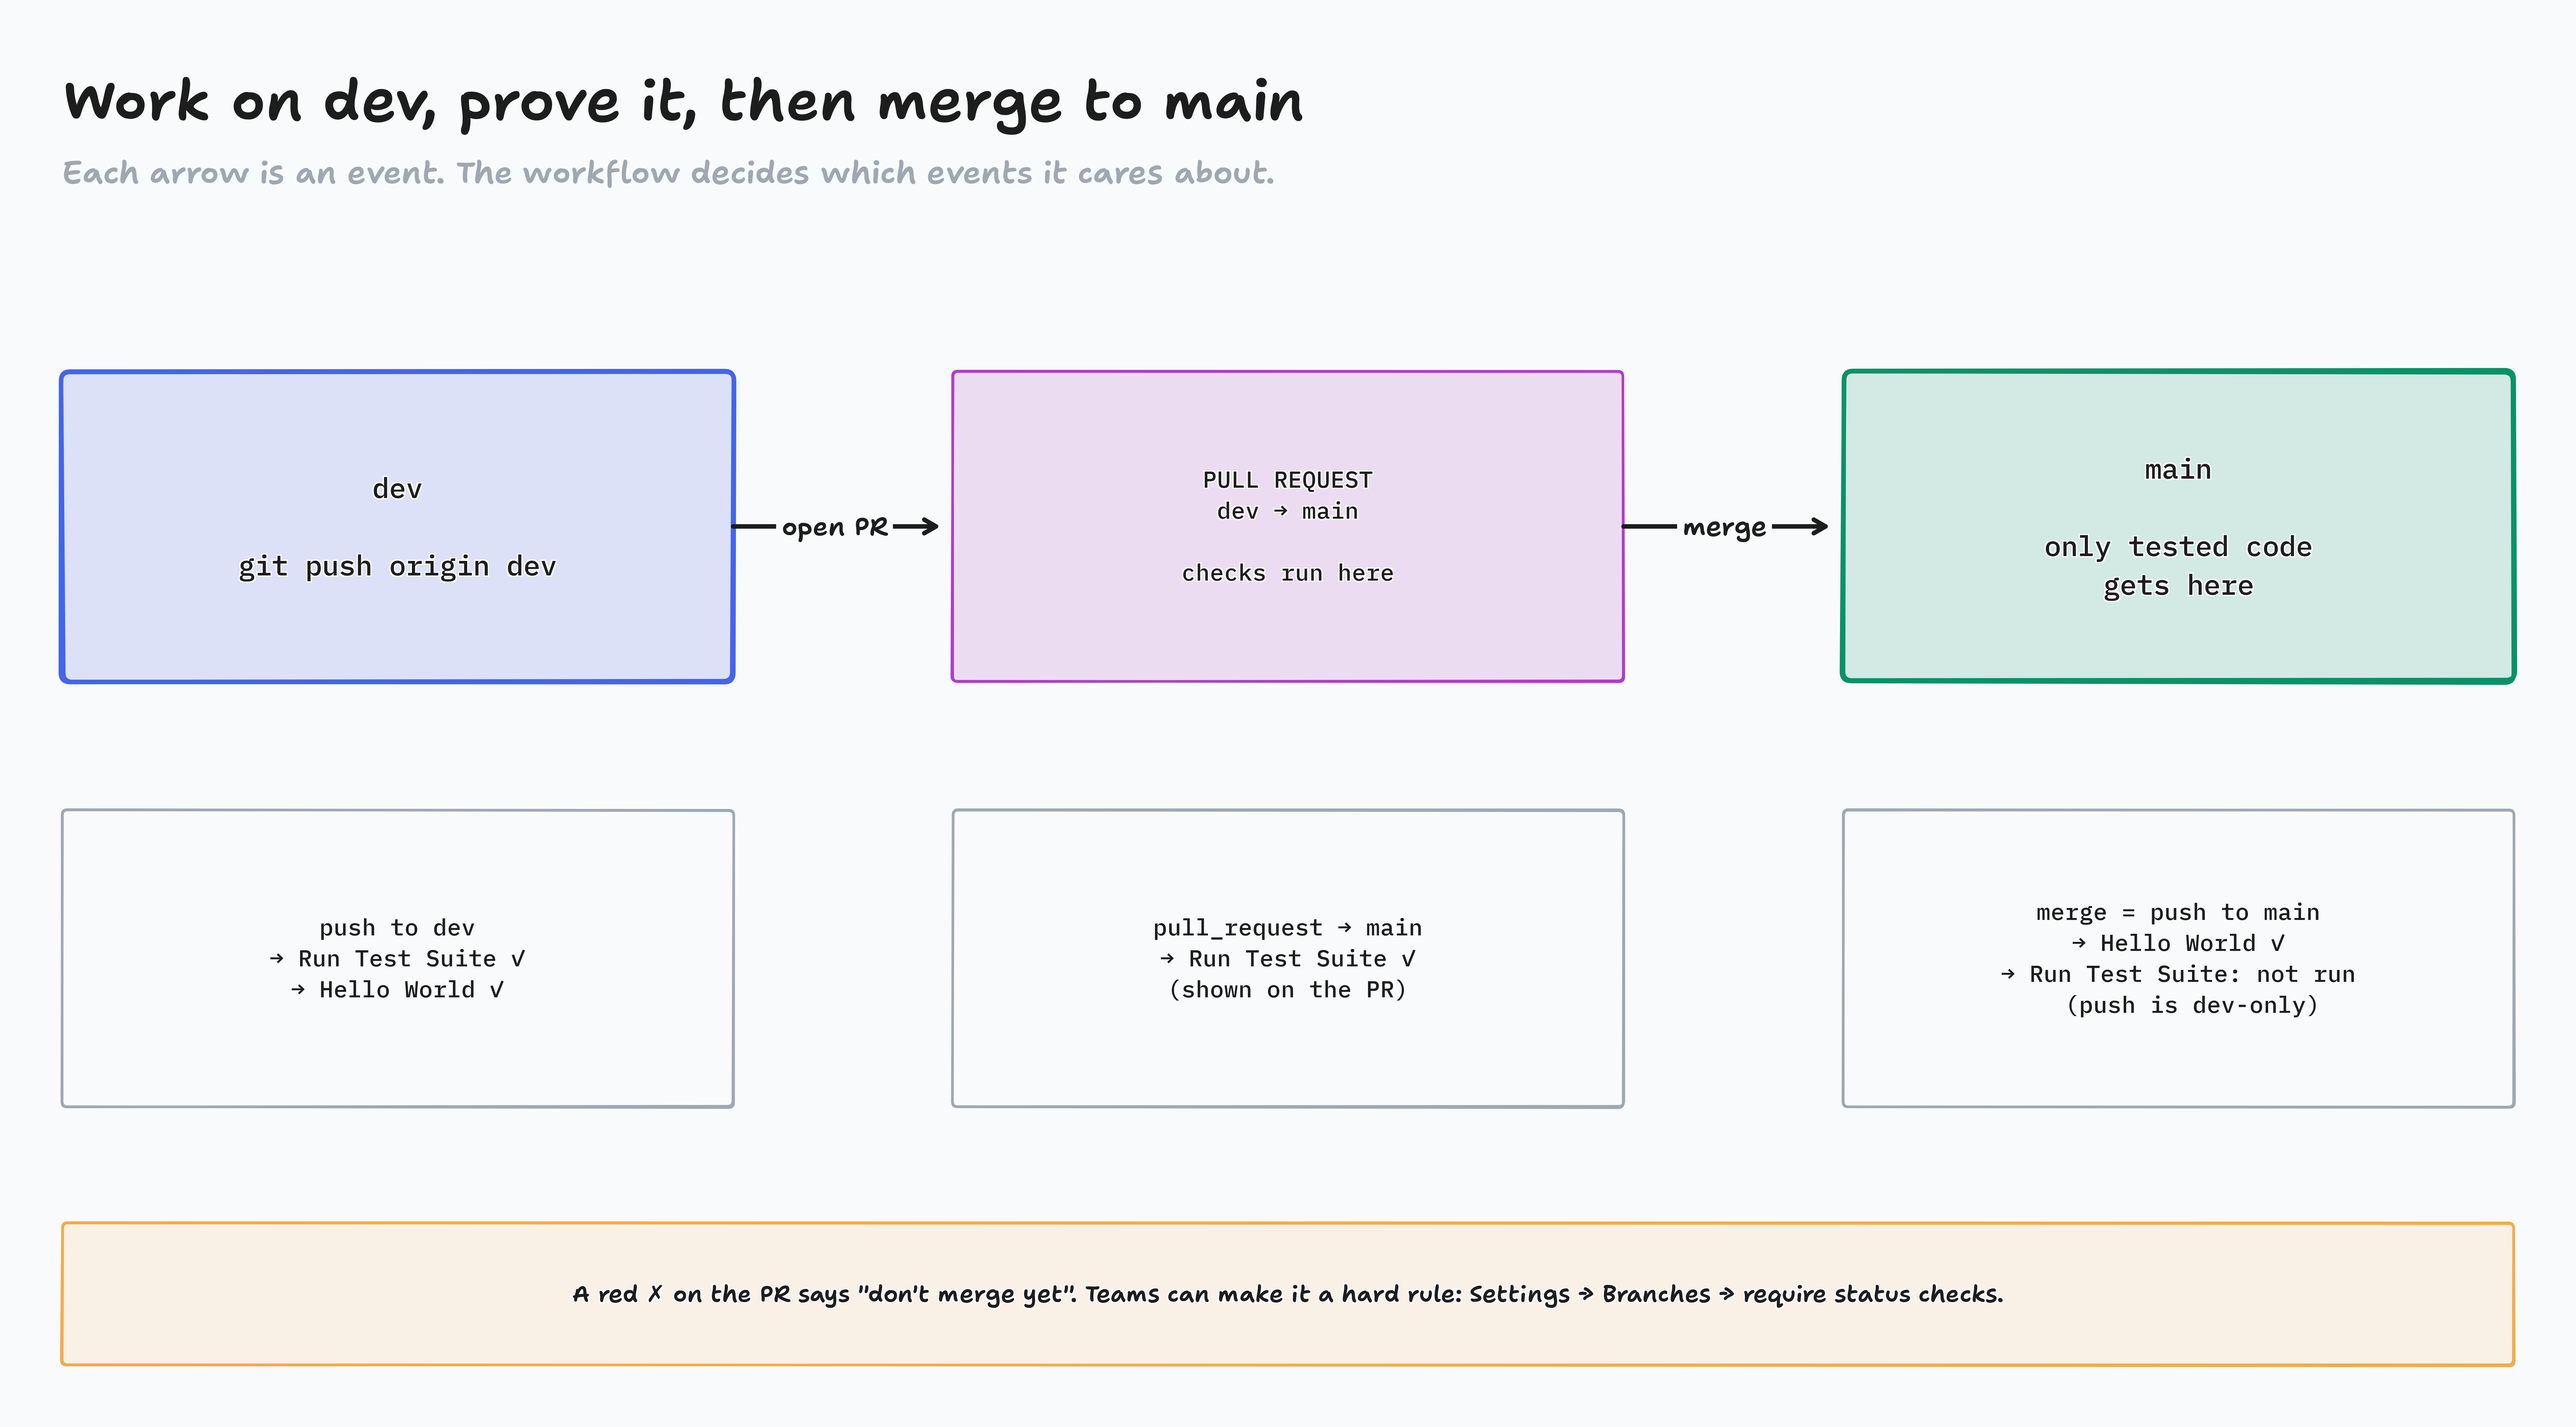
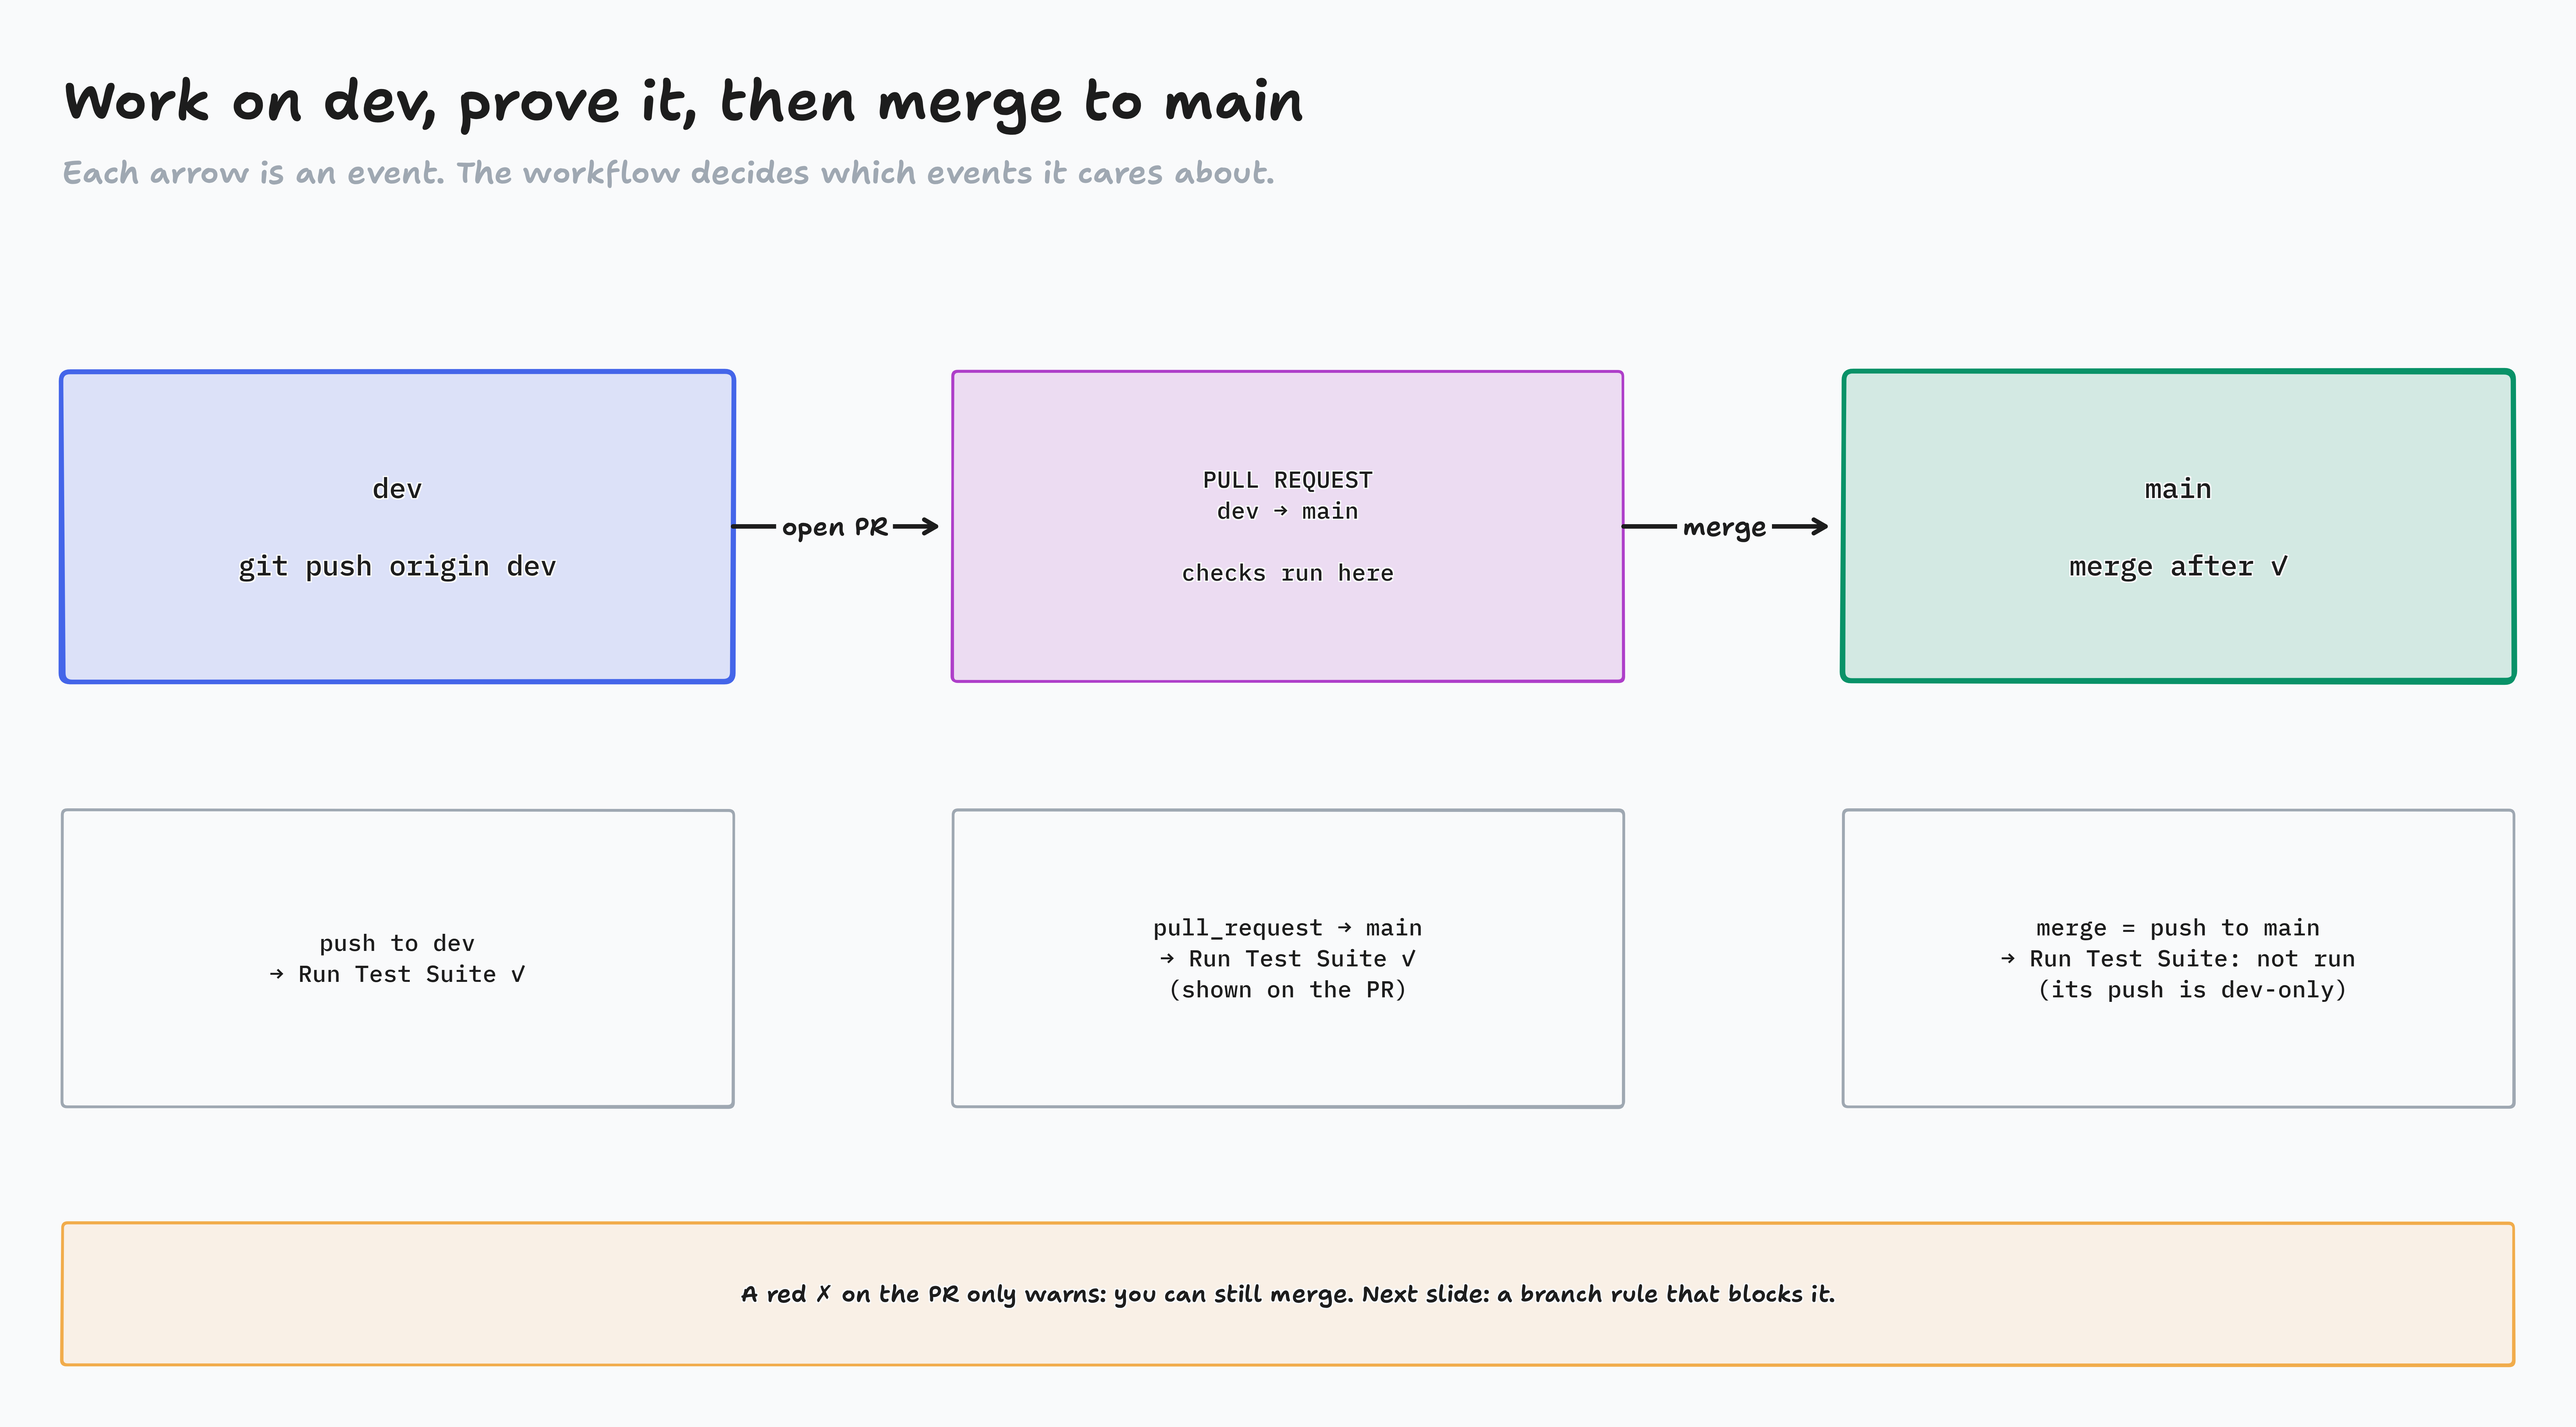
Lecture 2: students' ci-factorial has no Hello World; slide 7 and the dev/PR/main diagram match it

diff --git a/lecture-2-managing-workflows/slides.html b/lecture-2-managing-workflows/slides.html
@@ -184,11 +184,11 @@ git push -u origin dev</pre>
     </div>
   </div>
   <aside class="notes">
-    <p><b>** CODE ALONG, about 5 minutes. **</b> New file <code>.github/workflows/run-tests.yml</code> (next to hello-world.yml if they have it). Students copy from Code Lab 2; the YAML is the curriculum's, word for word.</p>
+    <p><b>** CODE ALONG, about 5 minutes. **</b> New file <code>.github/workflows/run-tests.yml</code> (ci-factorial is a new repo, so this is its only workflow). Students copy from Code Lab 2; the YAML is the curriculum's, word for word.</p>
     <ul>
       <li><code>|</code> = "the next lines are one multi-line command".</li>
       <li><code>npm test || (…exit 1)</code>: if the tests fail, print ❌ and fail the step.</li>
-      <li>Push to <b>dev</b> → Actions tab: Run Test Suite starts (and Hello World too, if the repo has it).</li>
+      <li>Push to <b>dev</b> → Actions tab: Run Test Suite starts. (The demo repo also shows a Hello World run: it has both files. Students' ci-factorial doesn't.)</li>
       <li><b>Install Jest step:</b> it's there because the lesson's package.json doesn't list Jest. Students ran <code>npm install --save-dev jest</code> on slide 3, so <b>their</b> package.json lists it: <code>npm install</code> already installs Jest, and this step is harmless. Their log says "added … packages", not "up to date" like slide 6.</li>
       <li>Say: "In your own projects, put Jest in devDependencies with <code>npm install --save-dev jest</code> and drop this step. <code>npm install</code> gets it from there." Better practice: one list of what the project needs, and the same Jest version on your laptop and in CI.</li>
     </ul>
@@ -227,7 +227,7 @@ git push -u origin dev</pre>
       <pre style="font-size:19px; margin-top:12px; padding:12px 16px">git add .
 git commit -m "Break a test"
 git push</pre>
-      <p class="small" style="margin-top:12px">Run Test Suite: <b style="color:var(--red)">✗ failure</b>. Hello World: still ✓.</p>
+      <p class="small" style="margin-top:12px">Run Test Suite: <b style="color:var(--red)">✗ failure</b>.</p>
     </div>
     <pre class="log" style="font-size:16.5px">FAIL ./main.test.js
   tests factorial for small numbers
@@ -252,6 +252,7 @@ Tests:       <span class="bad">1 failed</span>, <span class="ok">6 passed</span>
   <aside class="notes">
     <p><b>** CODE ALONG, about 3 minutes. **</b> Everyone breaks it and pushes. Open the red run → the <b>test</b> job → the red <b>Run tests</b> step.</p>
     <p>Then fix it (<code>toBe(6)</code>), commit, push → green again. Real log from kabeier/gh-actions-demo.</p>
+    <p><b>Demo repo vs students:</b> kabeier/gh-actions-demo also has hello-world.yml, so its Actions tab shows a Hello World run too. Students' <b>ci-factorial</b> is a separate repo with only Run Test Suite.</p>
   </aside>
 </section>
 
@@ -272,11 +273,12 @@ Tests:       <span class="bad">1 failed</span>, <span class="ok">6 passed</span>
 
 <!-- ============ PR, DISPATCH, CODE (25–33) ============ -->
 <section class="slide diagram" data-seg="Pull requests" data-at="25">
-  <img src="../diagrams/GA2-02-dev-pr-main.png" alt="Work on dev, prove it, then merge to main. dev (git push origin dev), then open a pull request dev into main where checks run, then merge into main where only tested code gets. A push to dev runs Run Test Suite and Hello World. The pull_request into main runs Run Test Suite, shown on the PR. The merge is a push to main: Hello World runs, Run Test Suite does not, because its push trigger is dev-only. A red X on the PR says don't merge yet; teams can make it a hard rule in Settings, Branches, require status checks.">
+  <img src="../diagrams/GA2-02-dev-pr-main.png?v=2" alt="Work on dev, prove it, then merge to main. dev (git push origin dev), then open a pull request dev into main where checks run, then merge into main after a green check. A push to dev runs Run Test Suite. The pull_request into main runs Run Test Suite, shown on the PR. The merge is a push to main: Run Test Suite does not run, because its push trigger is dev-only. A red X on the PR only warns: you can still merge. Next slide: a branch rule that blocks it.">
   <div class="src">diagrams/GA2-02-dev-pr-main.tldr</div>
   <aside class="notes">
     <p><b>** LIVE, about 3 minutes. **</b> github.com → your repo → <b>Compare &amp; pull request</b> (dev → main) → the checks appear at the bottom of the PR. Wait for ✓, then <b>Merge</b>.</p>
     <p>Backup: <a href="https://github.com/kabeier/gh-actions-demo/pull/1">kabeier/gh-actions-demo PR #1</a>.</p>
+    <p>Students' ci-factorial has only Run Test Suite. The demo repo backup also shows Hello World runs (it has both files).</p>
     <p>A red ✗ here only <b>warns</b>; the next slide shows how a branch rule <b>blocks</b> the merge.</p>
   </aside>
 </section>
